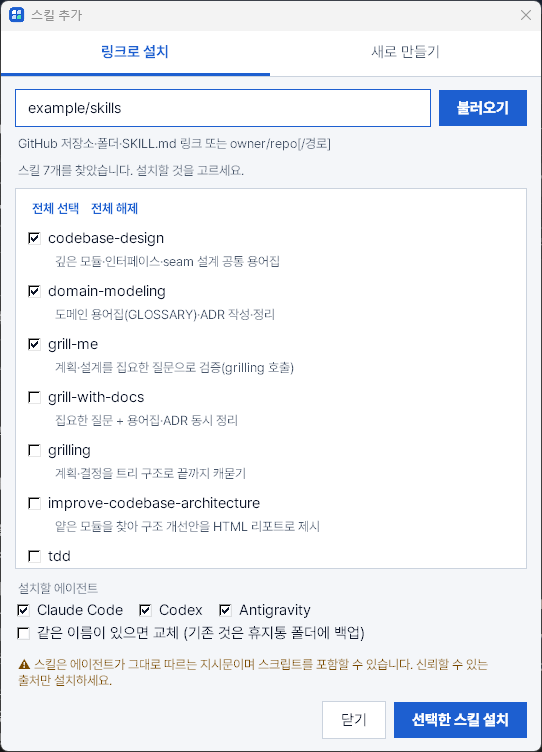
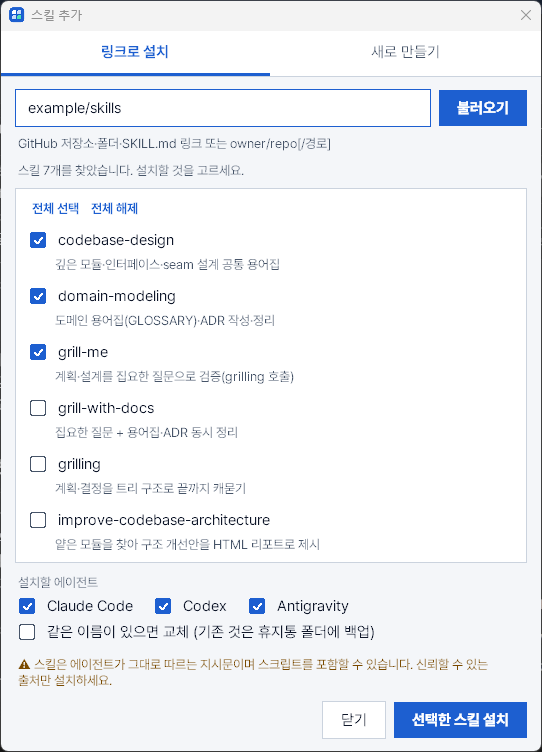
Docs: 상세 보기와 메뉴 설명, 스크린샷 추가
- README에 상세 보기, 스킬 메뉴 사용법과 트레이 더블클릭 동작을 추가하고 스크린샷 `detail.png`, `menu.png` 추가
- 새 체크박스·메뉴가 반영되도록 기존 스크린샷을 다시 촬영하고, 개발 가이드에 시스템 위젯 대신 테마 위젯을 쓰는 규칙 추가

Changed region(s): [[0.0295, 0.3059, 0.7085, 0.8564]]

diff --git a/docs/make_screenshots.py b/docs/make_screenshots.py
@@ -136,6 +136,15 @@ def main() -> None:
             shot(dlg.win, "add-new")
             dlg.close()
 
+            grilling = next(x for x in app.data["Claude Code"] if x["name"] == "grilling")
+            app.detail(grilling)
+            shot(app.detail_win.win, "detail")
+            app.detail_win.close()
+            app.row_menu(grilling, app.root.winfo_rootx() + app.px(600), app.root.winfo_rooty() + app.px(330))
+            app.popup.win.unbind("<FocusOut>")  # keep it open while the picture is taken
+            shot(app.popup.win, "menu")
+            app.close_popup()
+
             app.set_agent("Codex")
             shot(app.root, "codex")
             app.quit()

diff --git a/docs/DEVELOPMENT.md b/docs/DEVELOPMENT.md
@@ -261,7 +261,7 @@ python docs/make_screenshots.py     # Windows에서 실행, docs/images/*.png를
 - 사용자에게 보이는 오류는 `ManagerError(한국어 문장)`로 올리고, 화면에서 그대로 보여 줍니다.
 - 오래 걸리는 일은 `App.bg()`로 작업 스레드에서 합니다. 위젯은 Tk 스레드에서만 만집니다.
 - 글꼴은 `App.f(크기, 굵게)`로만 지정합니다. 기울임꼴은 쓰지 않습니다(테스트가 막습니다).
-- 버튼은 `App._button()`(Label 기반)을 씁니다. `tk.Button`은 macOS에서 색이 무시됩니다.
+- 버튼은 `App._button()`(Label 기반), 체크박스는 `App._check()`(Canvas로 그림), 메뉴는 `Popup`을 씁니다. `tk.Button`·`tk.Checkbutton`·`tk.Menu`는 시스템 모양으로 그려져 테마 색이 적용되지 않습니다(macOS는 색을 아예 무시).
 - 주석은 코드만 봐서는 알 수 없는 **이유**만 한 줄로 적습니다.
 - 알려진 한계가 있는 지름길은 `# shortcut: <한계>, <언제 고칠지>` 형식으로 남깁니다.
 
